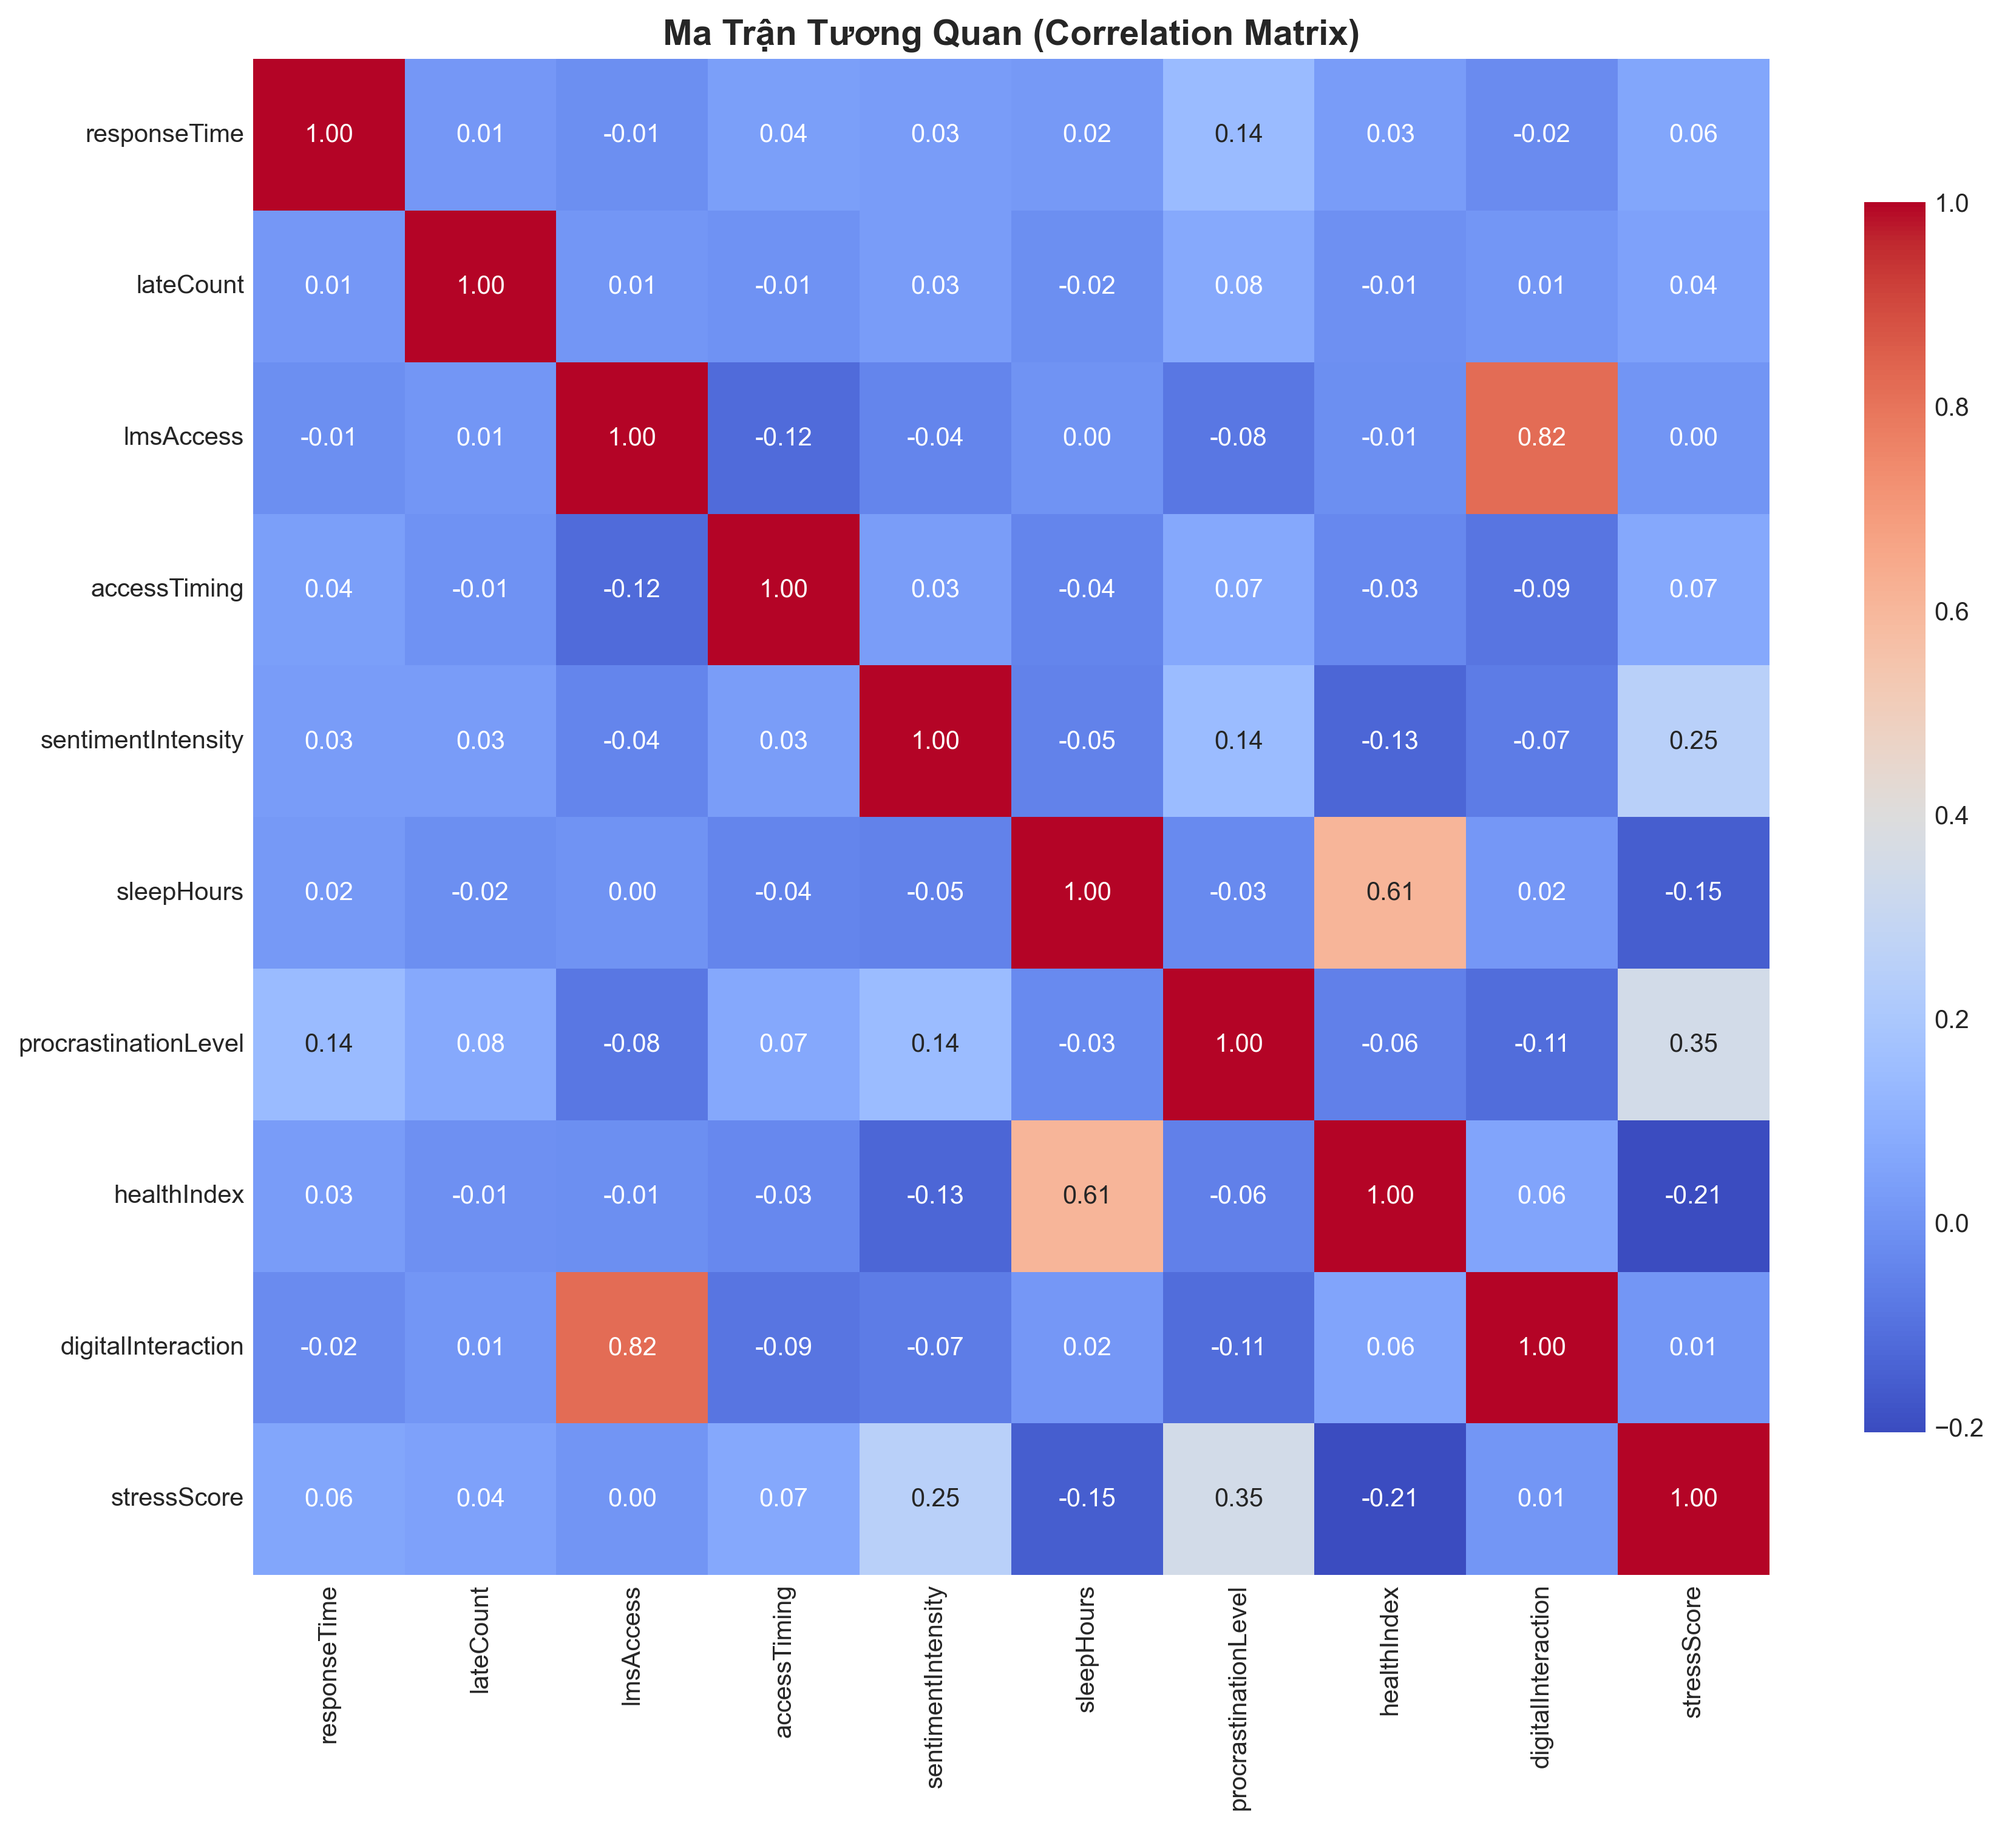
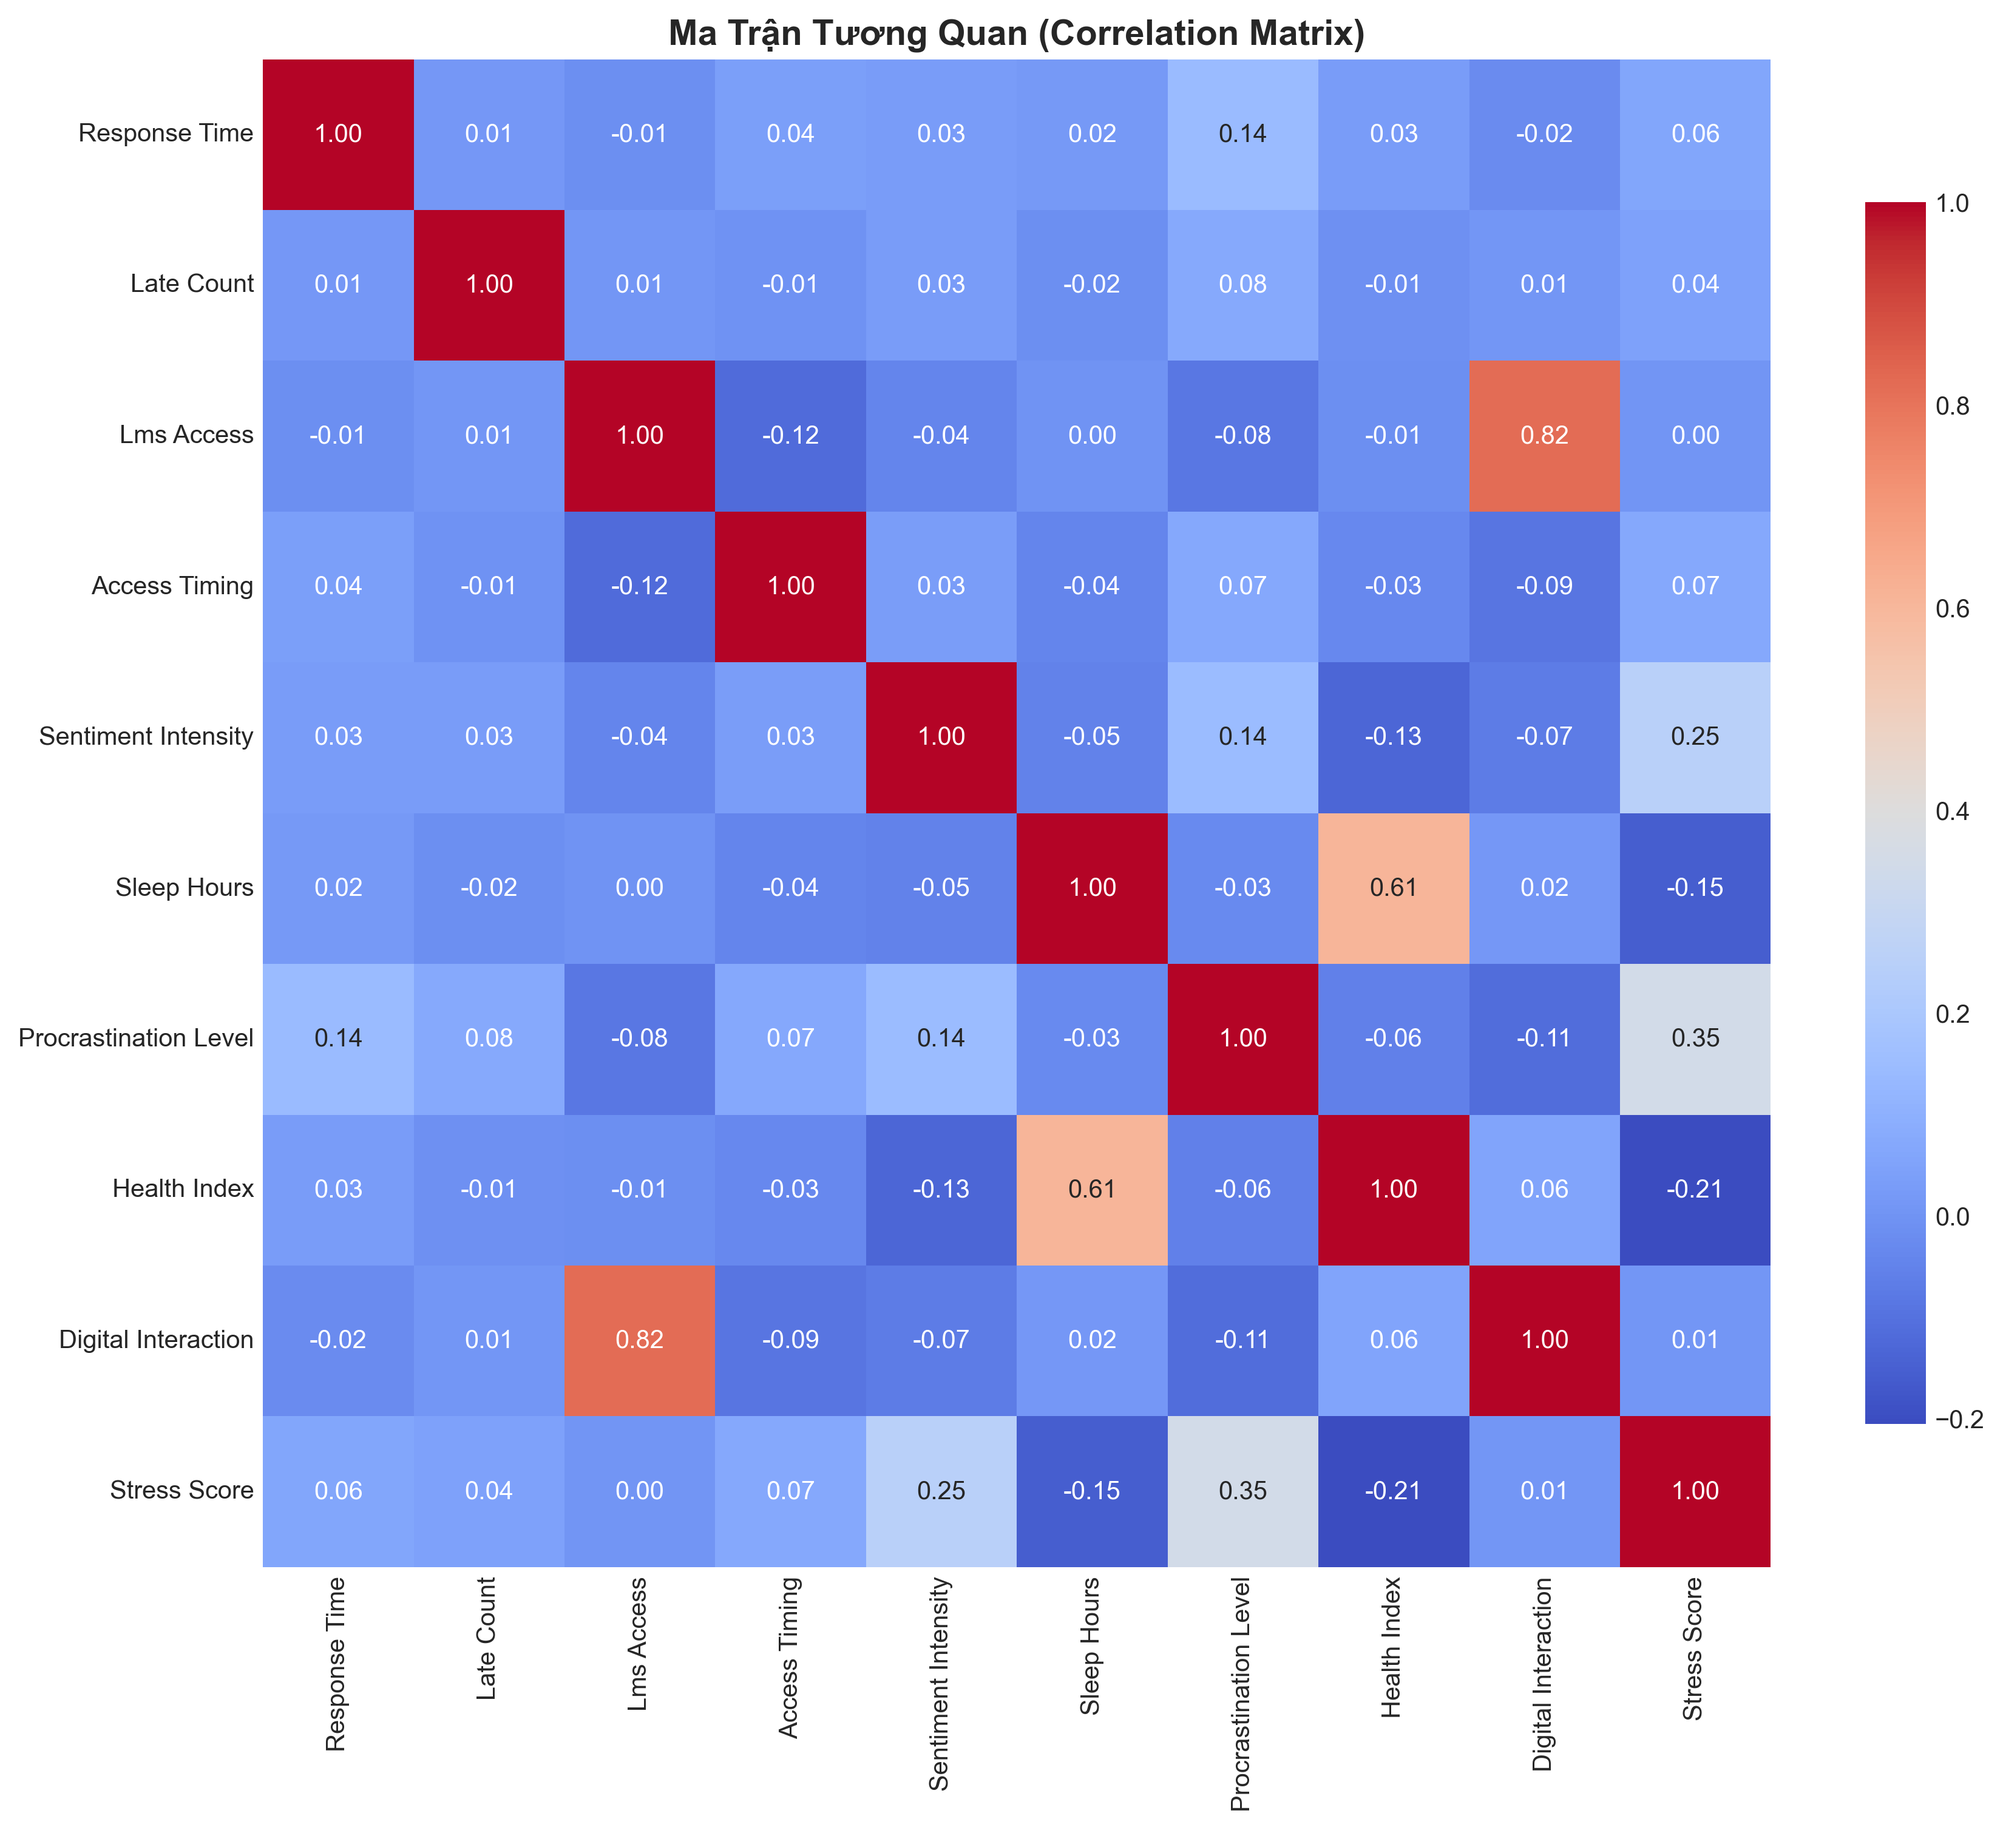
.

diff --git a/main.py b/main.py
@@ -95,6 +95,7 @@ dfClean['healthIndex'] = dfClean['sleepHours'] * dfClean['sleepQuality']
 dfClean['digitalInteraction'] = dfClean['lmsAccess'] * dfClean['interactionScore']
 features = ['responseTime', 'lateCount', 'lmsAccess', 'accessTiming', 'sentimentIntensity', 'sleepHours', 'procrastinationLevel', 'healthIndex', 'digitalInteraction']
 target = 'stressScore'
+feat_map = {f: re.sub(r'([a-z])([A-Z])', r'\1 \2', f).title() for f in features + [target]}
 dfFinal = dfClean.dropna(subset=features + [target])
 x = dfFinal[features]
 y = dfFinal[target]
@@ -270,16 +271,16 @@ print("\n" + "=" * 80)
 print("Feature Importance Analysis")
 print("=" * 80)
 print("\nRandom Forest Feature Importance:")
-rfImportances = pd.Series(rfModel.feature_importances_, index=features).sort_values(ascending=False)
+rfImportances = pd.Series(rfModel.feature_importances_, index=[feat_map[f] for f in features]).sort_values(ascending=False)
 print(rfImportances)
 print("\nGradient Boosting Feature Importance:")
-gbImportances = pd.Series(gbModel.feature_importances_, index=features).sort_values(ascending=False)
+gbImportances = pd.Series(gbModel.feature_importances_, index=[feat_map[f] for f in features]).sort_values(ascending=False)
 print(gbImportances)
 print("\n" + "=" * 80)
 print("Generating Visualizations...")
 print("=" * 80)
 plt.figure(figsize=(12, 10))
-sns.heatmap(dfFinal[features + [target]].corr(), annot=True, cmap='coolwarm', fmt=".2f", square=True,
+sns.heatmap(dfFinal[features + [target]].rename(columns=feat_map).corr(), annot=True, cmap='coolwarm', fmt=".2f", square=True,
             cbar_kws={"shrink": 0.8})
 plt.title("Ma Trận Tương Quan (Correlation Matrix)", fontsize=14, fontweight='bold')
 plt.tight_layout()
@@ -301,19 +302,17 @@ plt.tight_layout()
 plt.savefig('ModelAccuracyComparison.png', dpi=300, bbox_inches='tight')
 plt.show()
 fig, axes = plt.subplots(2, 2, figsize=(20, 16))
-dtImportances = pd.Series(dtModel.feature_importances_, index=features).sort_values()
-dtImportances.index = [re.sub(r'([a-z])([A-Z])', r'\1 \2', f).title() for f in dtImportances.index]
+dtImportances = pd.Series(dtModel.feature_importances_, index=[feat_map[f] for f in features]).sort_values()
 dtImportances.plot(kind='barh', ax=axes[0, 0], color='lightseagreen')
 axes[0, 0].set_title('Decision Tree Importance', fontsize=16, fontweight='bold', pad=20)
-rfImportancesFormatted = rfImportances.sort_values()
+rfImportancesFormatted = pd.Series(rfModel.feature_importances_, index=[feat_map[f] for f in features]).sort_values()
 rfImportancesFormatted.plot(kind='barh', ax=axes[0, 1], color='steelblue')
 axes[0, 1].set_title('Random Forest Importance', fontsize=16, fontweight='bold', pad=20)
-gbImportancesFormatted = gbImportances.sort_values()
+gbImportancesFormatted = pd.Series(gbModel.feature_importances_, index=[feat_map[f] for f in features]).sort_values()
 gbImportancesFormatted.plot(kind='barh', ax=axes[1, 0], color='coral')
 axes[1, 0].set_title('Gradient Boosting Importance', fontsize=16, fontweight='bold', pad=20)
 avgVotingImportance = (dtModel.feature_importances_ + rfModel.feature_importances_ + gbModel.feature_importances_) / 3
-voteImportances = pd.Series(avgVotingImportance, index=features).sort_values()
-voteImportances.index = [re.sub(r'([a-z])([A-Z])', r'\1 \2', f).title() for f in voteImportances.index]
+voteImportances = pd.Series(avgVotingImportance, index=[feat_map[f] for f in features]).sort_values()
 voteImportances.plot(kind='barh', ax=axes[1, 1], color='mediumpurple')
 axes[1, 1].set_title('Voting Classifier Importance', fontsize=16, fontweight='bold', pad=20)
 for ax in axes.flat:
@@ -351,15 +350,14 @@ plt.tight_layout()
 plt.savefig('PrecisionRecallF1Comparison.png', dpi=300, bbox_inches='tight')
 plt.show()
 plt.figure(figsize=(80, 20))
-titleCaseFeatures = [re.sub(r'([a-z])([A-Z])', r'\1 \2', f).title() for f in features]
-plot_tree(dtModel, feature_names=titleCaseFeatures, class_names=['Bình Thường', 'Stress Cao'], filled=True, rounded=True, precision=1, fontsize=8, impurity=False)
+plot_tree(dtModel, feature_names=[feat_map[f] for f in features], class_names=['Bình Thường', 'Stress Cao'], filled=True, rounded=True, precision=1, fontsize=8, impurity=False)
 plt.title("Decision Tree Visualization", fontsize=40, fontweight='bold')
 plt.subplots_adjust(left=0.01, right=0.99, top=0.75, bottom=0.05)
 plt.savefig('DecisionTree.png', dpi=300)
 plt.show()
 avgImportances = (rfImportances + gbImportances) / 2
 plt.figure(figsize=(10, 6))
-pd.Series(avgImportances.values, index=titleCaseFeatures).sort_values().plot(kind='barh', color='purple')
+avgImportances.sort_values().plot(kind='barh', color='purple')
 plt.title('Average Feature Importance Score', fontsize=14, fontweight='bold')
 plt.xlabel('Importance Score')
 plt.tight_layout()
